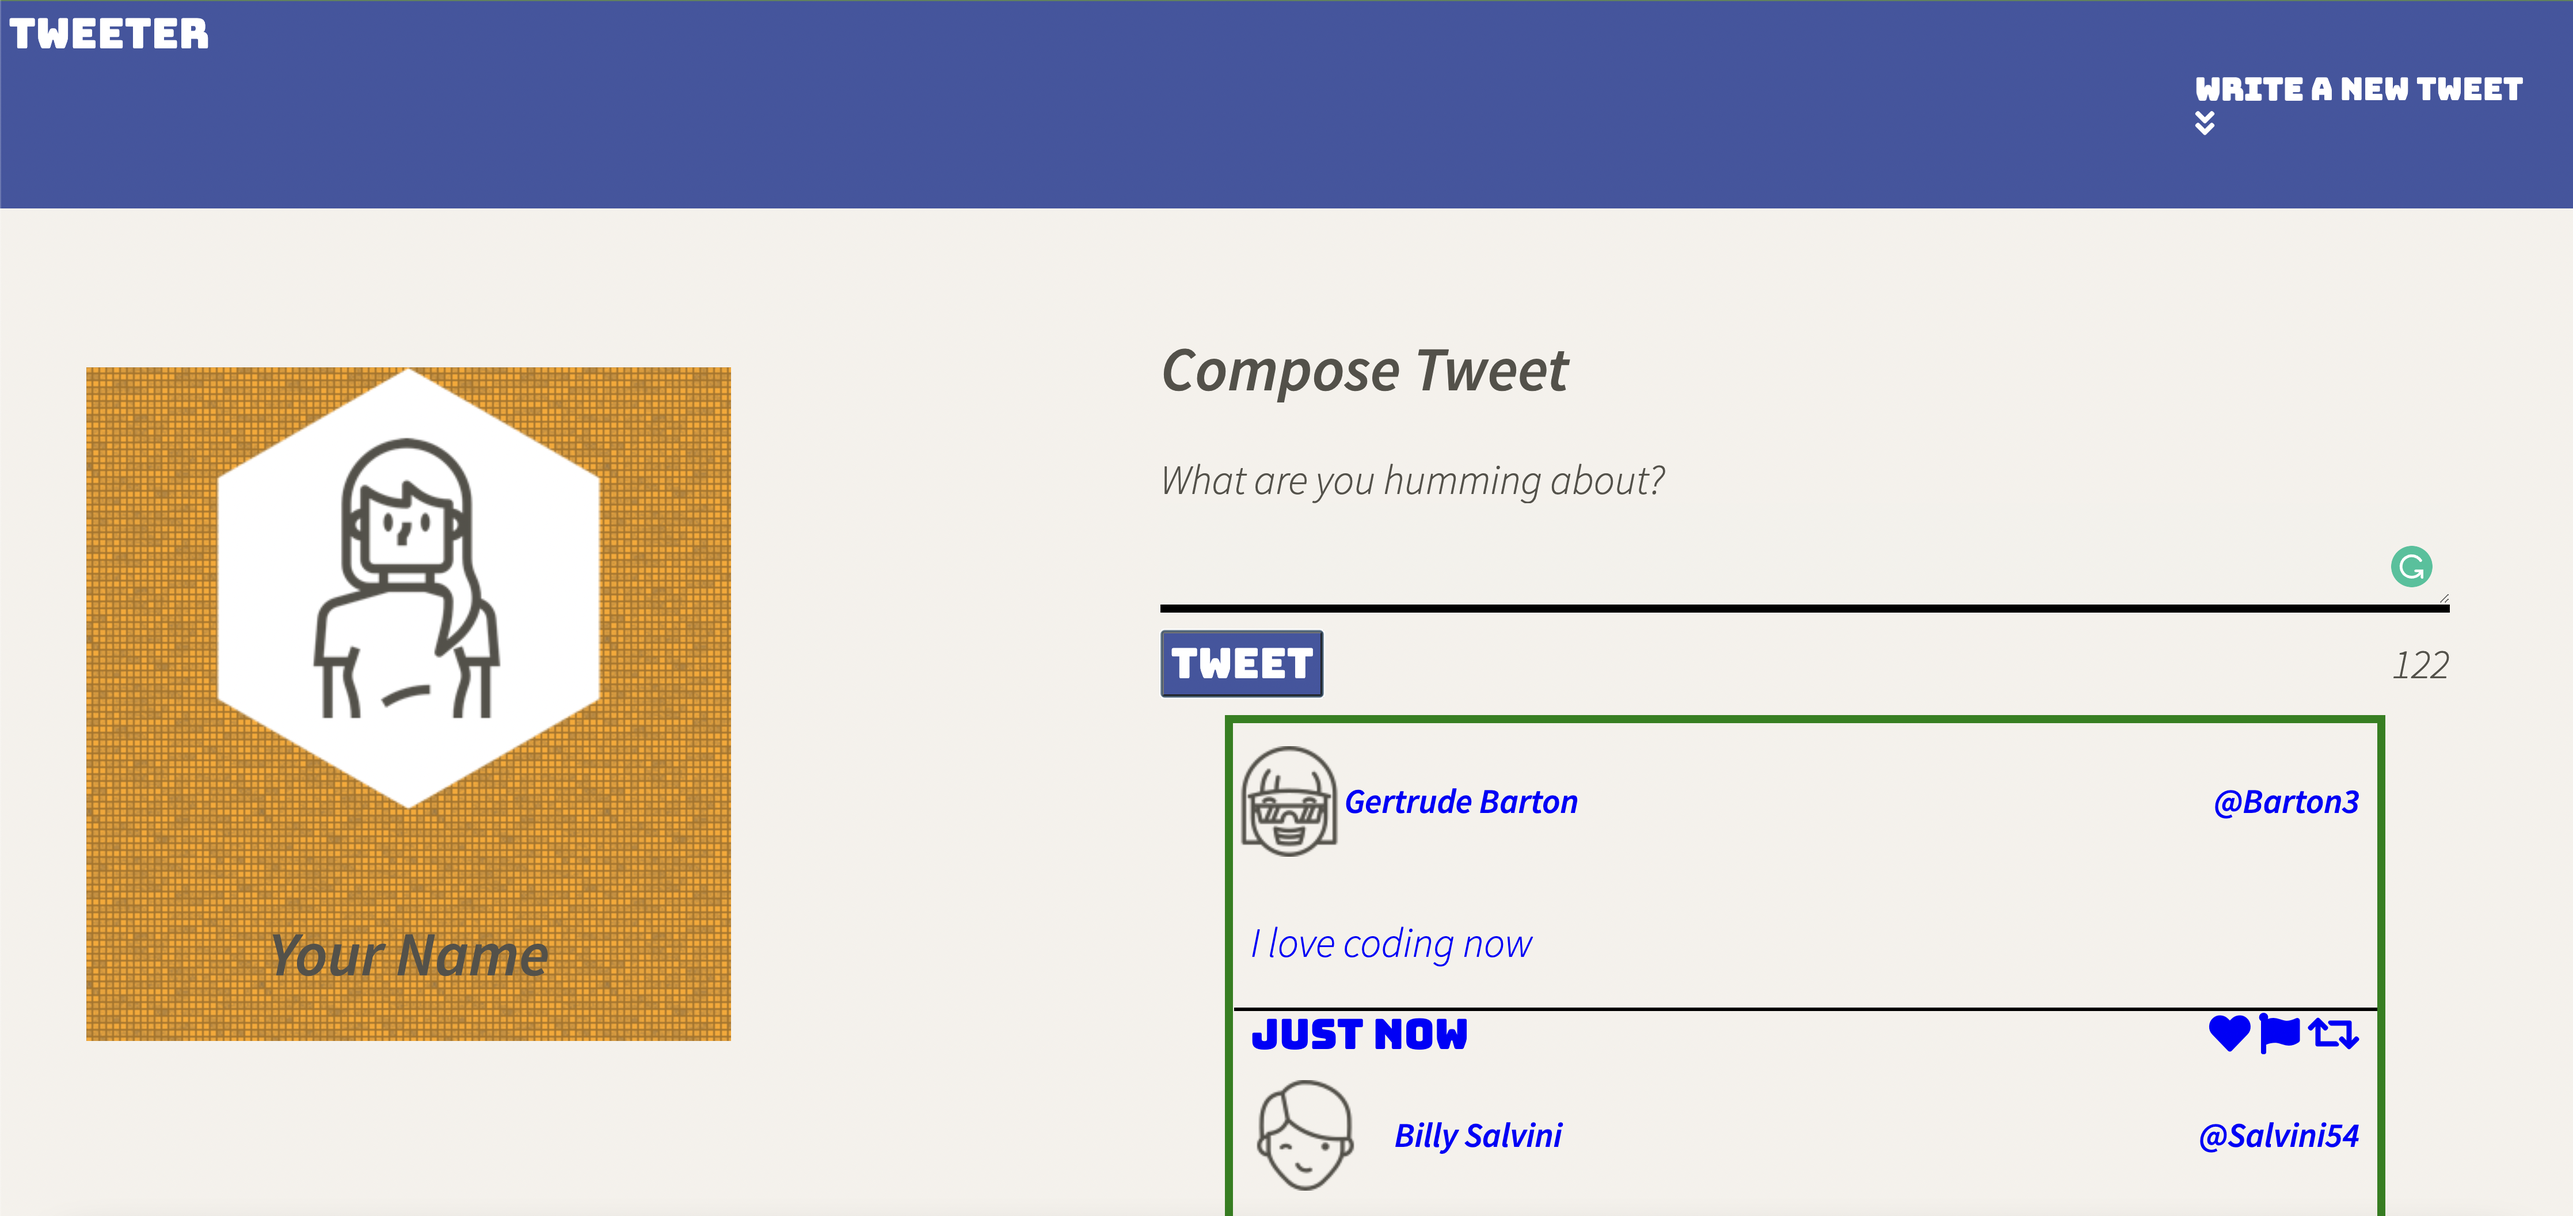
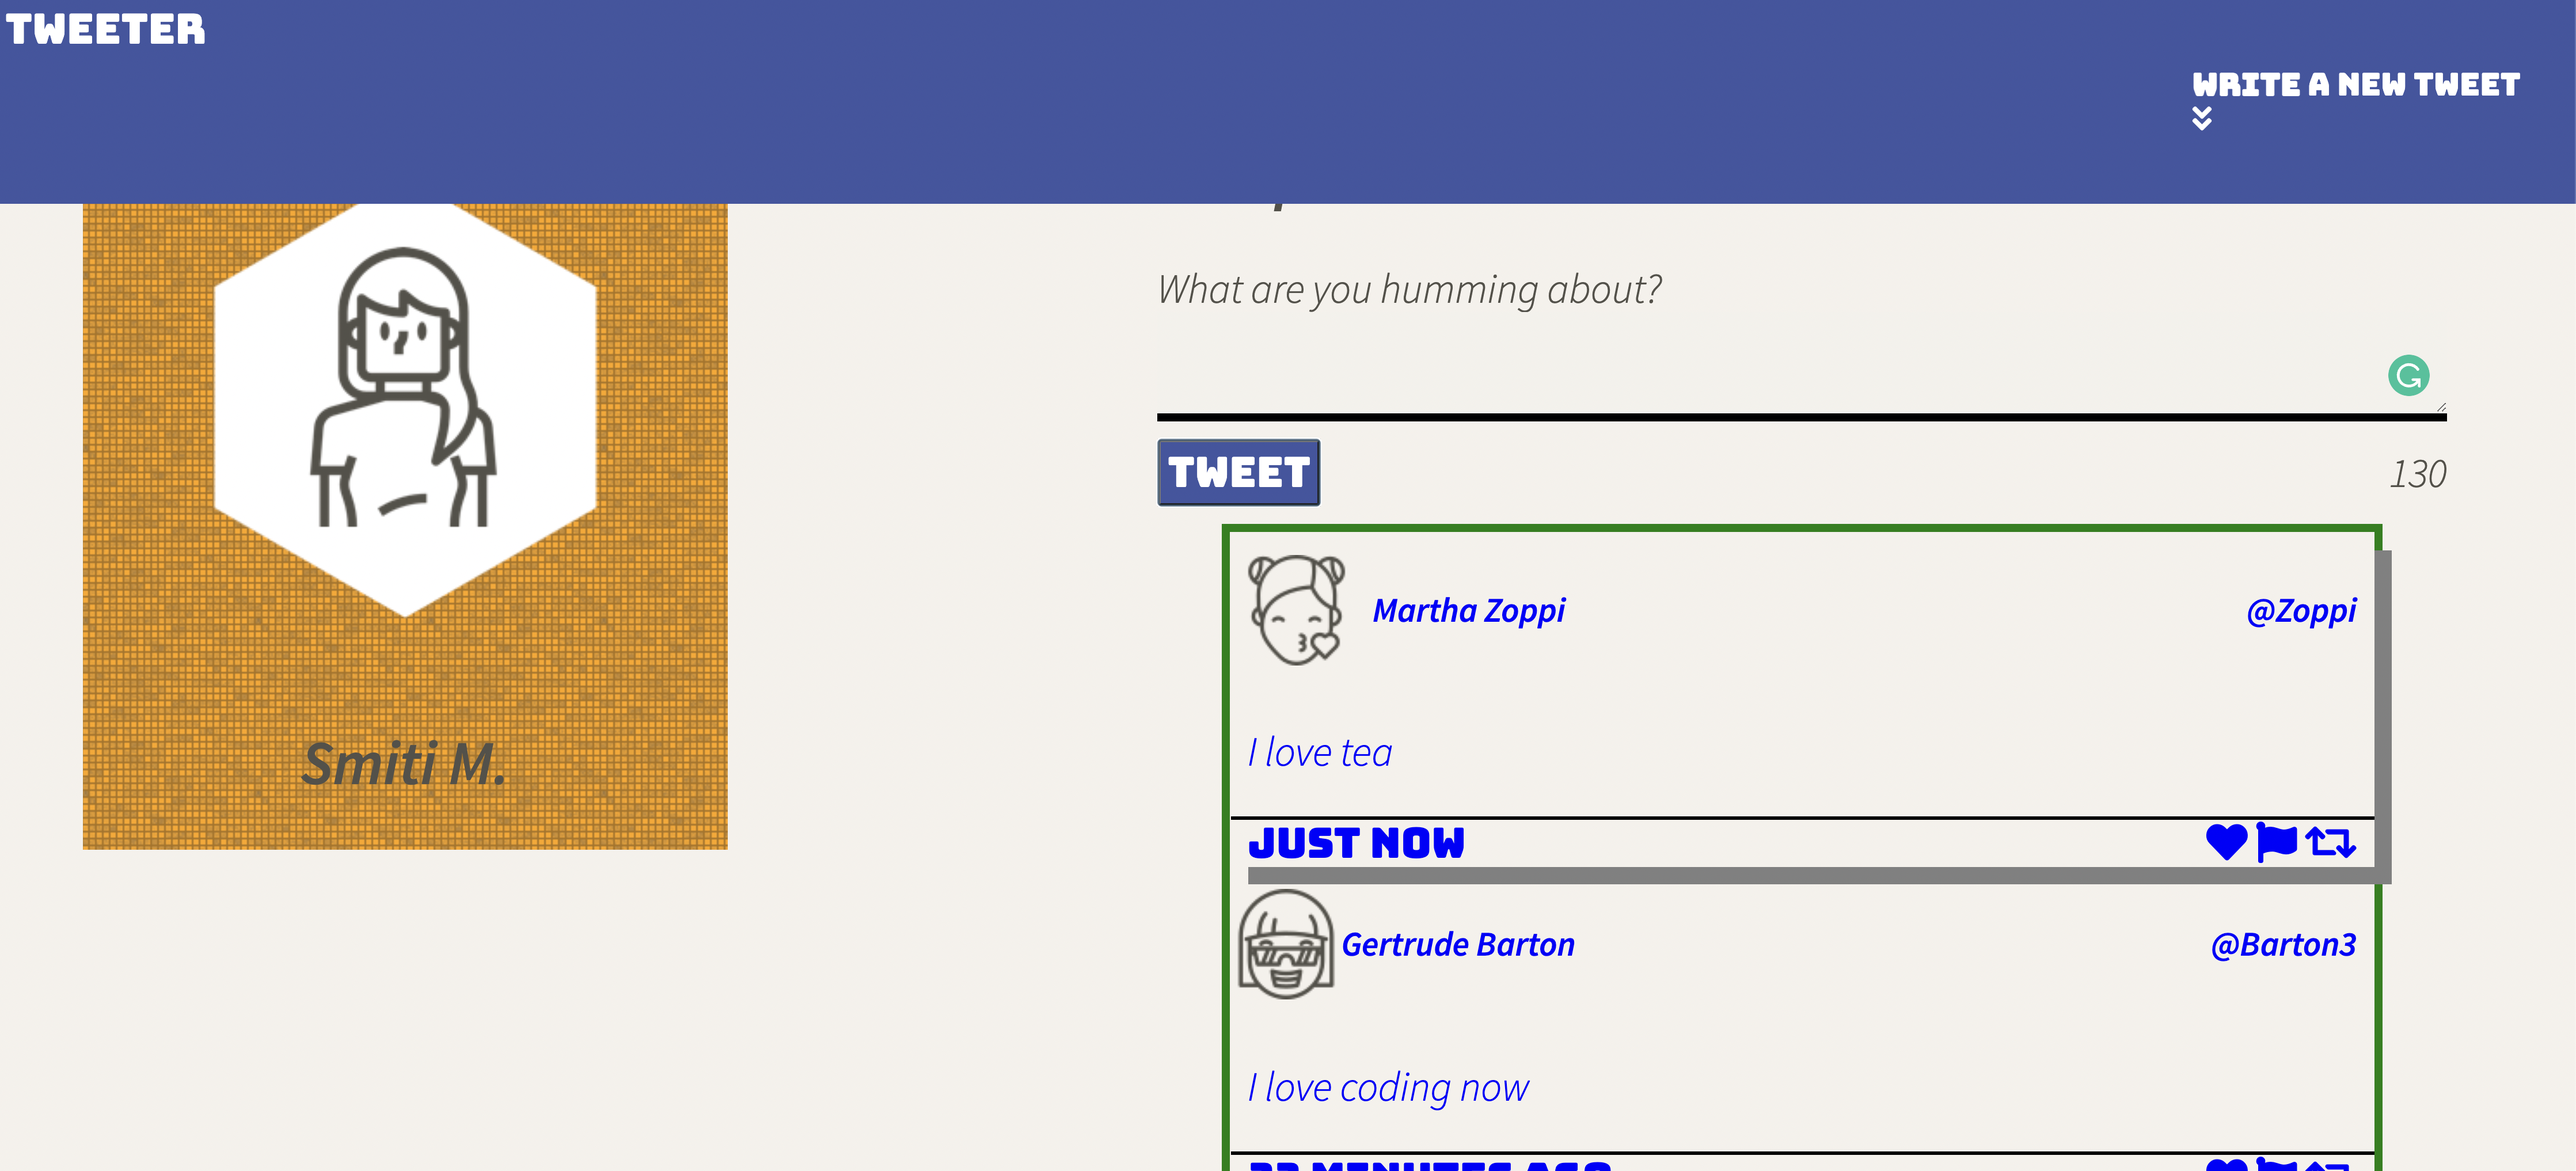
added new screenshots

diff --git a/public/index.html b/public/index.html
@@ -48,7 +48,7 @@
     </div>
     <br>
     <div class="name-box">
-        <h2>Your Name</h2>
+        <h2>Smiti M.</h2>
     </div>
 </header>
 
